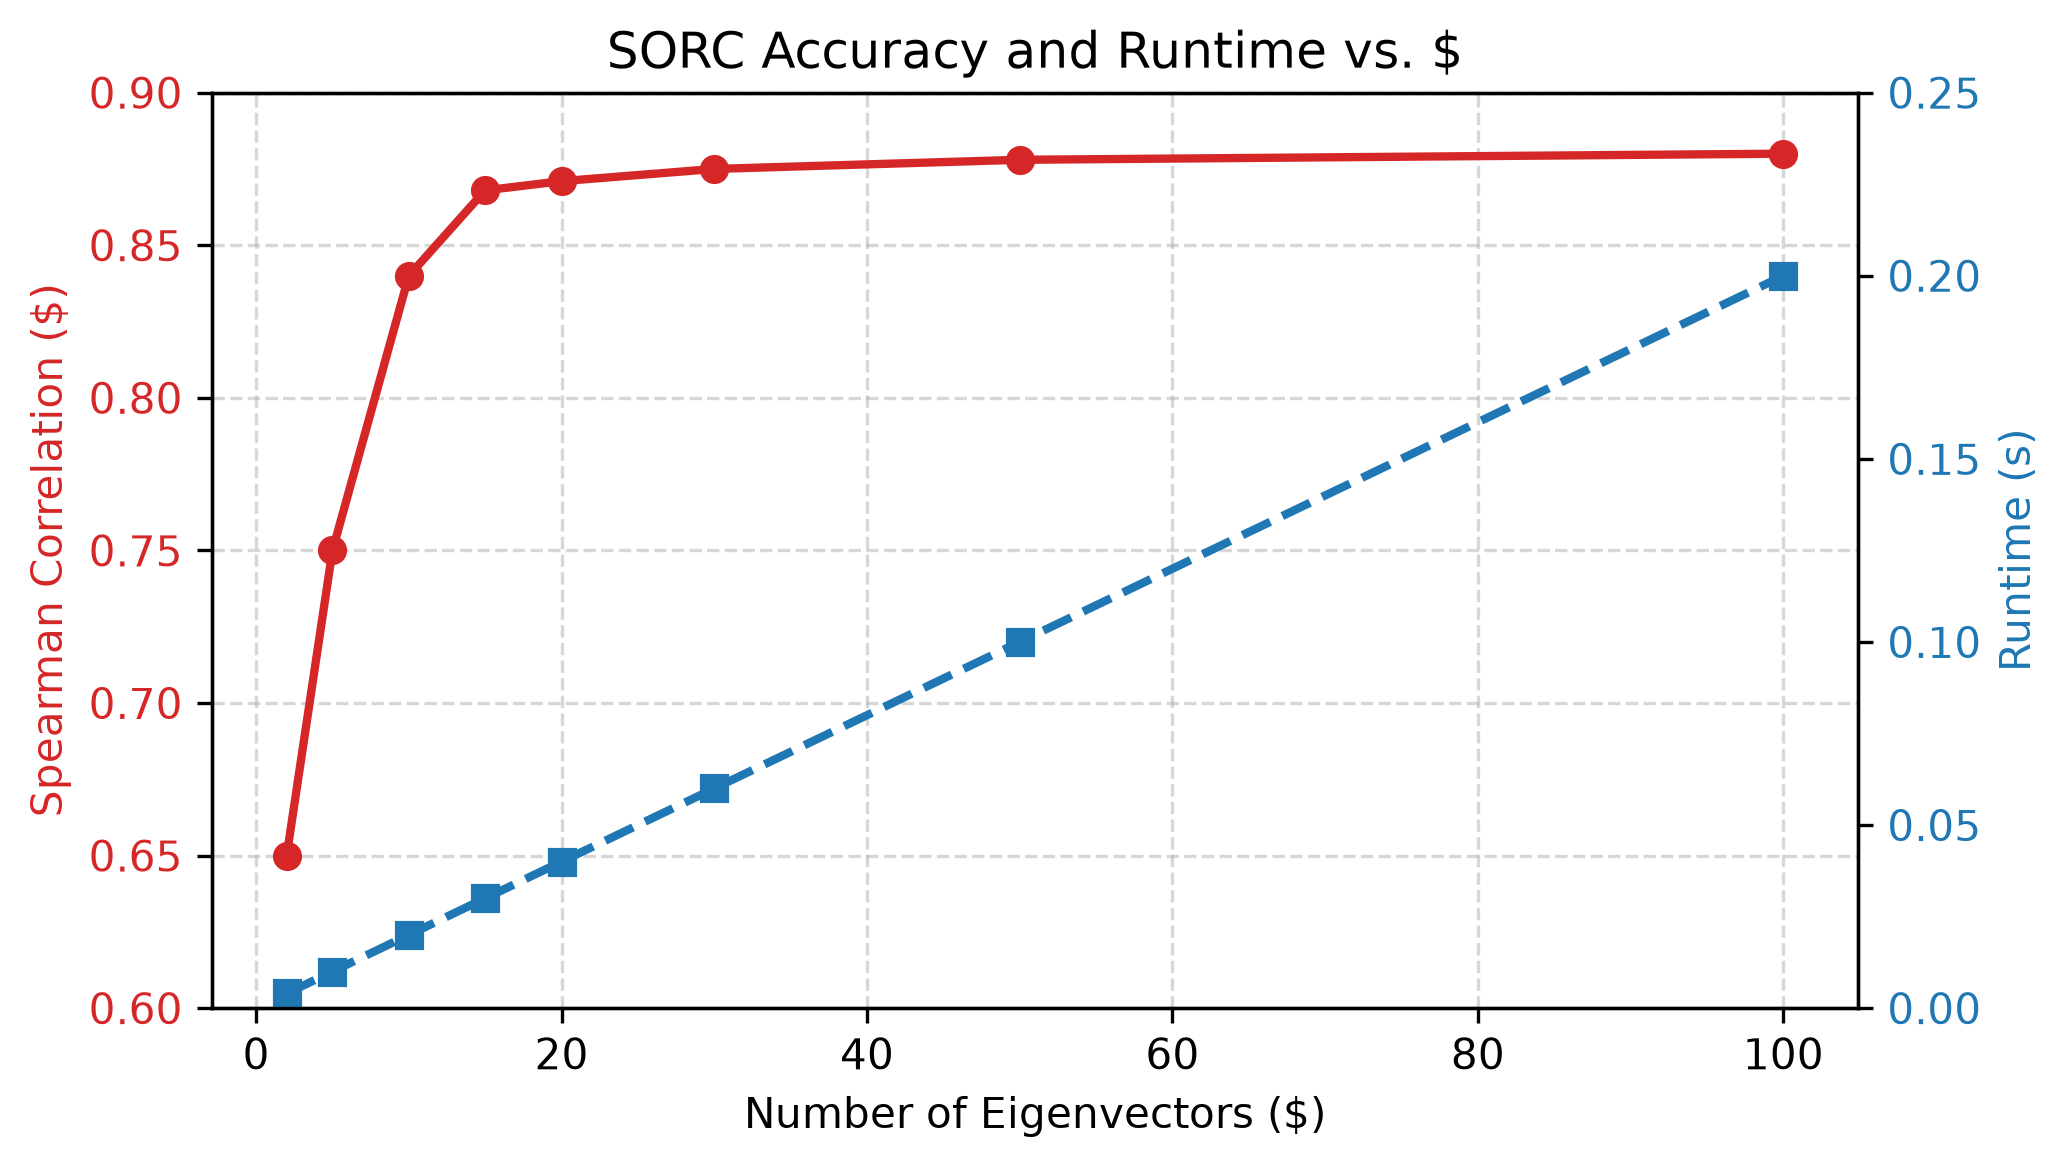
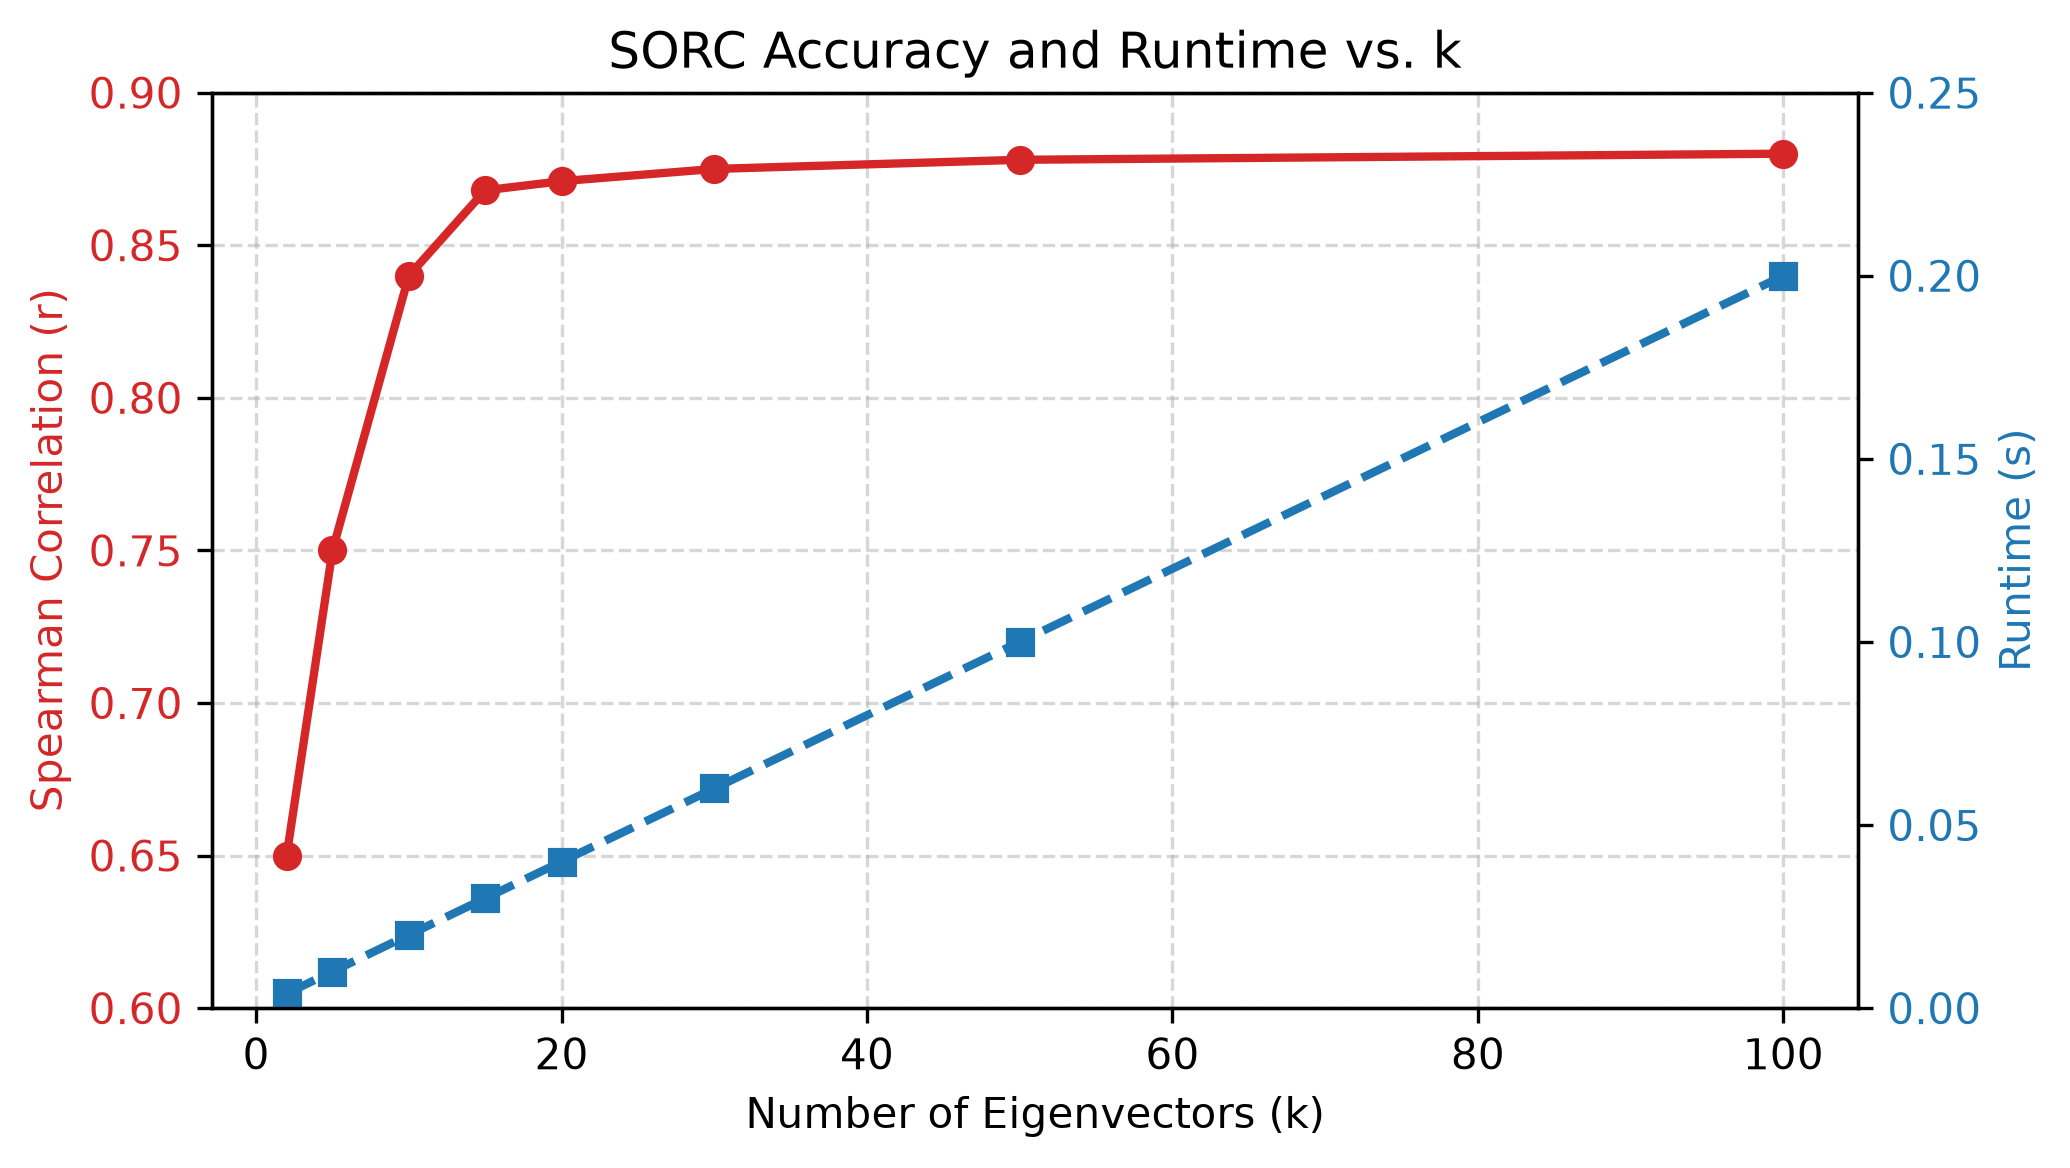
Final polish: fix email, soften conjecture, fix figure label

diff --git a/sorc_manuscript.tex b/sorc_manuscript.tex
@@ -19,7 +19,7 @@
 
 \author{
   Aryan Padarthi \\
-  \texttt{aryanpadarthi@example.com}
+  \texttt{aryan.padarthi@gmail.com}
 }
 
 \newtheorem{theorem}{Theorem}
@@ -56,7 +56,7 @@ It is a standard fact in optimal transport that pushforward under a 1-Lipschitz 
 The Sliced Ollivier-Ricci Curvature $\kappa_{\text{SORC}}^{(k)}(u,v) = 1 - \text{SW}_k(m_u^\alpha, m_v^\alpha)/d(u,v)$ guarantees that $\kappa_{\text{SORC}}^{(k)}(u,v) \ge \kappa_{\text{ORC}}(u,v)$.
 \end{corollary}
 
-While the bound monotonically tightens as $k \to n$, the maximum over the spectral axes limits the exact recovery of $W_1$ to cases where the optimal coupling perfectly aligns with a single eigenvector. Otherwise, strict inequality holds. In practice, however, this lower bound serves as a highly accurate proxy.
+While the bound monotonically tightens as $k \to n$, the maximum over the spectral axes limits the exact recovery of $W_1$ to cases where the optimal coupling perfectly aligns with a single eigenvector. Otherwise, we conjecture that strict inequality holds. In practice, however, this lower bound serves as a highly accurate proxy.
 
 \section{Implementation and Empirical Validation}
 Computing SORC requires $\mathcal{O}(k|E|)$ for the Lanczos Laplacian decomposition and Lipschitz normalization, followed by closed-form 1D CDF differences across the $\deg(u)+\deg(v)$ points in the supports of adjacent measures. 
